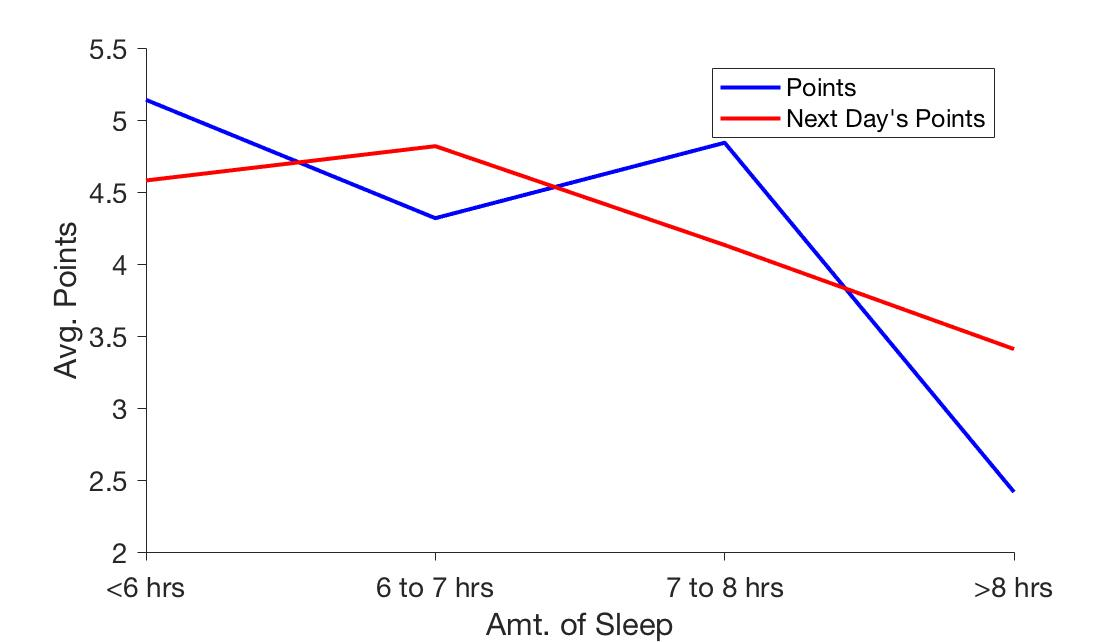
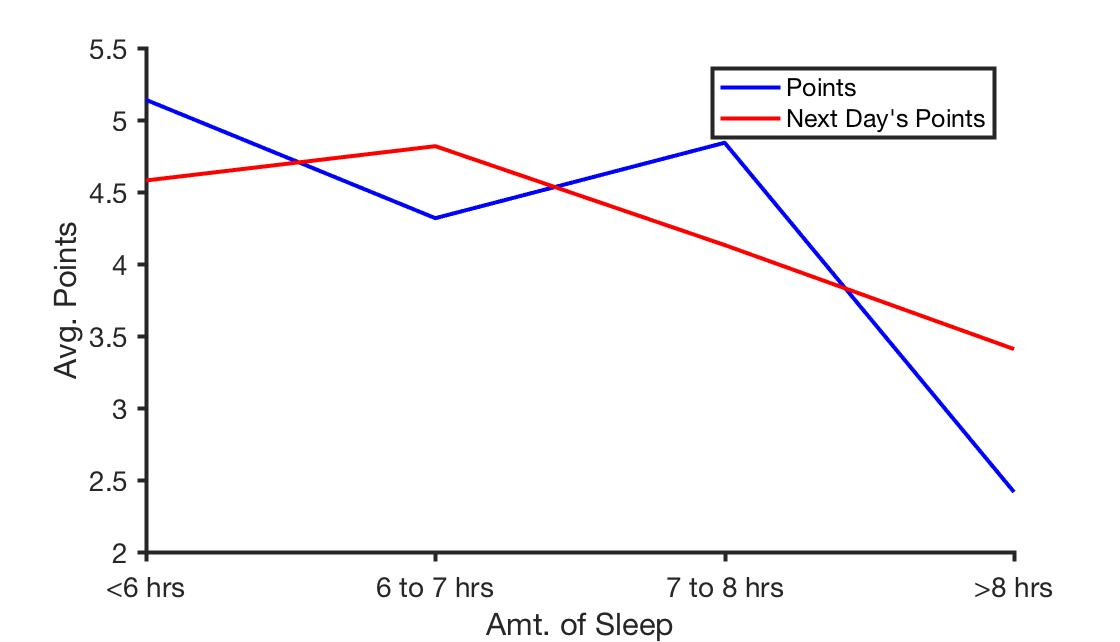
sfd

Changed region(s): [[0.125, 0.0623, 0.9062, 0.8723], [0.625, 0.0935, 0.9062, 0.2181]]

diff --git a/_posts/2017-12-20-Productivity-Analysis.md b/_posts/2017-12-20-Productivity-Analysis.md
@@ -20,9 +20,9 @@ I should note that I have already conducted a similar study on myself during und
 ## Sleeping less = More productive?
 I try to get a little over 7 hours of sleep a night, but that's just my subjective account of what feels best when I wake up. Perhaps I actually work much better with 8 hours of sleep, or with 6 hours of sleep. Here is a plot of number of hours of sleep against number of points accrued.
 
-<img src = "/images/prod1.jpg" style="width:680; height:400px">
+<img src = "/images/prod1.jpg" style="height: 50%; width: 50%">
 <i>Error bars represent 1 std dev. Days when I was not concerned about my productivity were not included in this data (e.g., vacations, conferences).</i>
 
 Strangely, it seems that as long as I sleep less than 8 hours, I have about the same level of productivity. I somewhat expected that getting too much sleep would lead to less productivity (considering I already know I get most work done in the mornings), but I thought that getting too little sleep would also negatively impact me. Curious about this result, I recreated the same graph given that the y-axis now plotted to the <i>next day's</i> accrued points. The idea being that after sleeping so little, the ramifications might hit me the following day.
 
-<img src = "/images/prod2.jpg" style="width:580; height:300px">
+<img src = "/images/prod2.jpg" style="height:50%; width: 50%">
